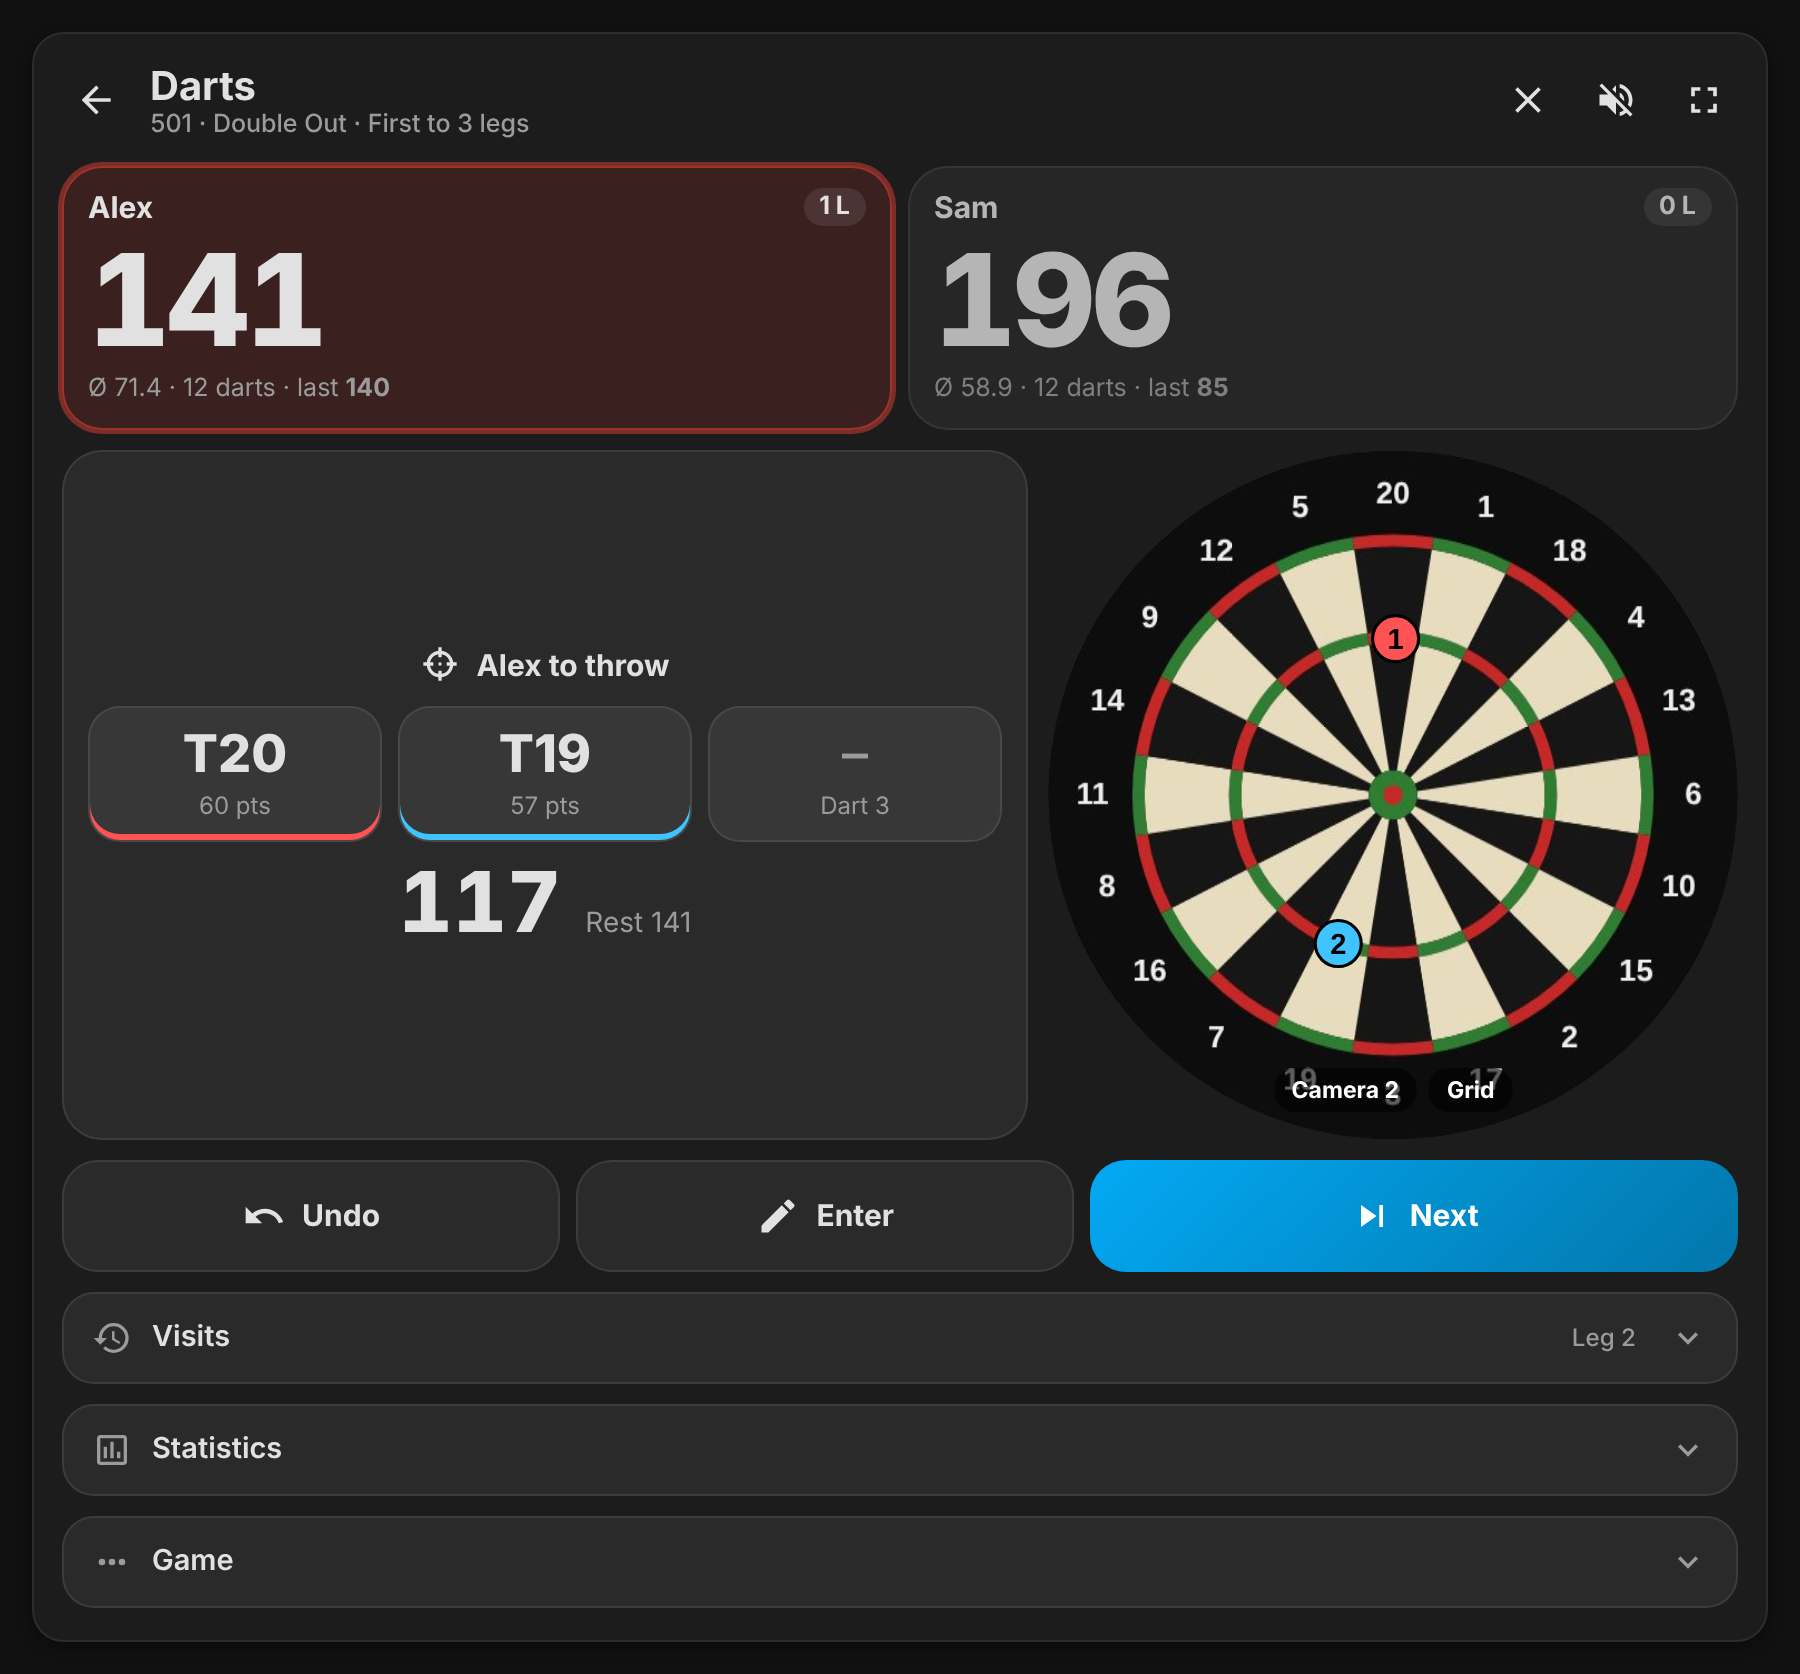
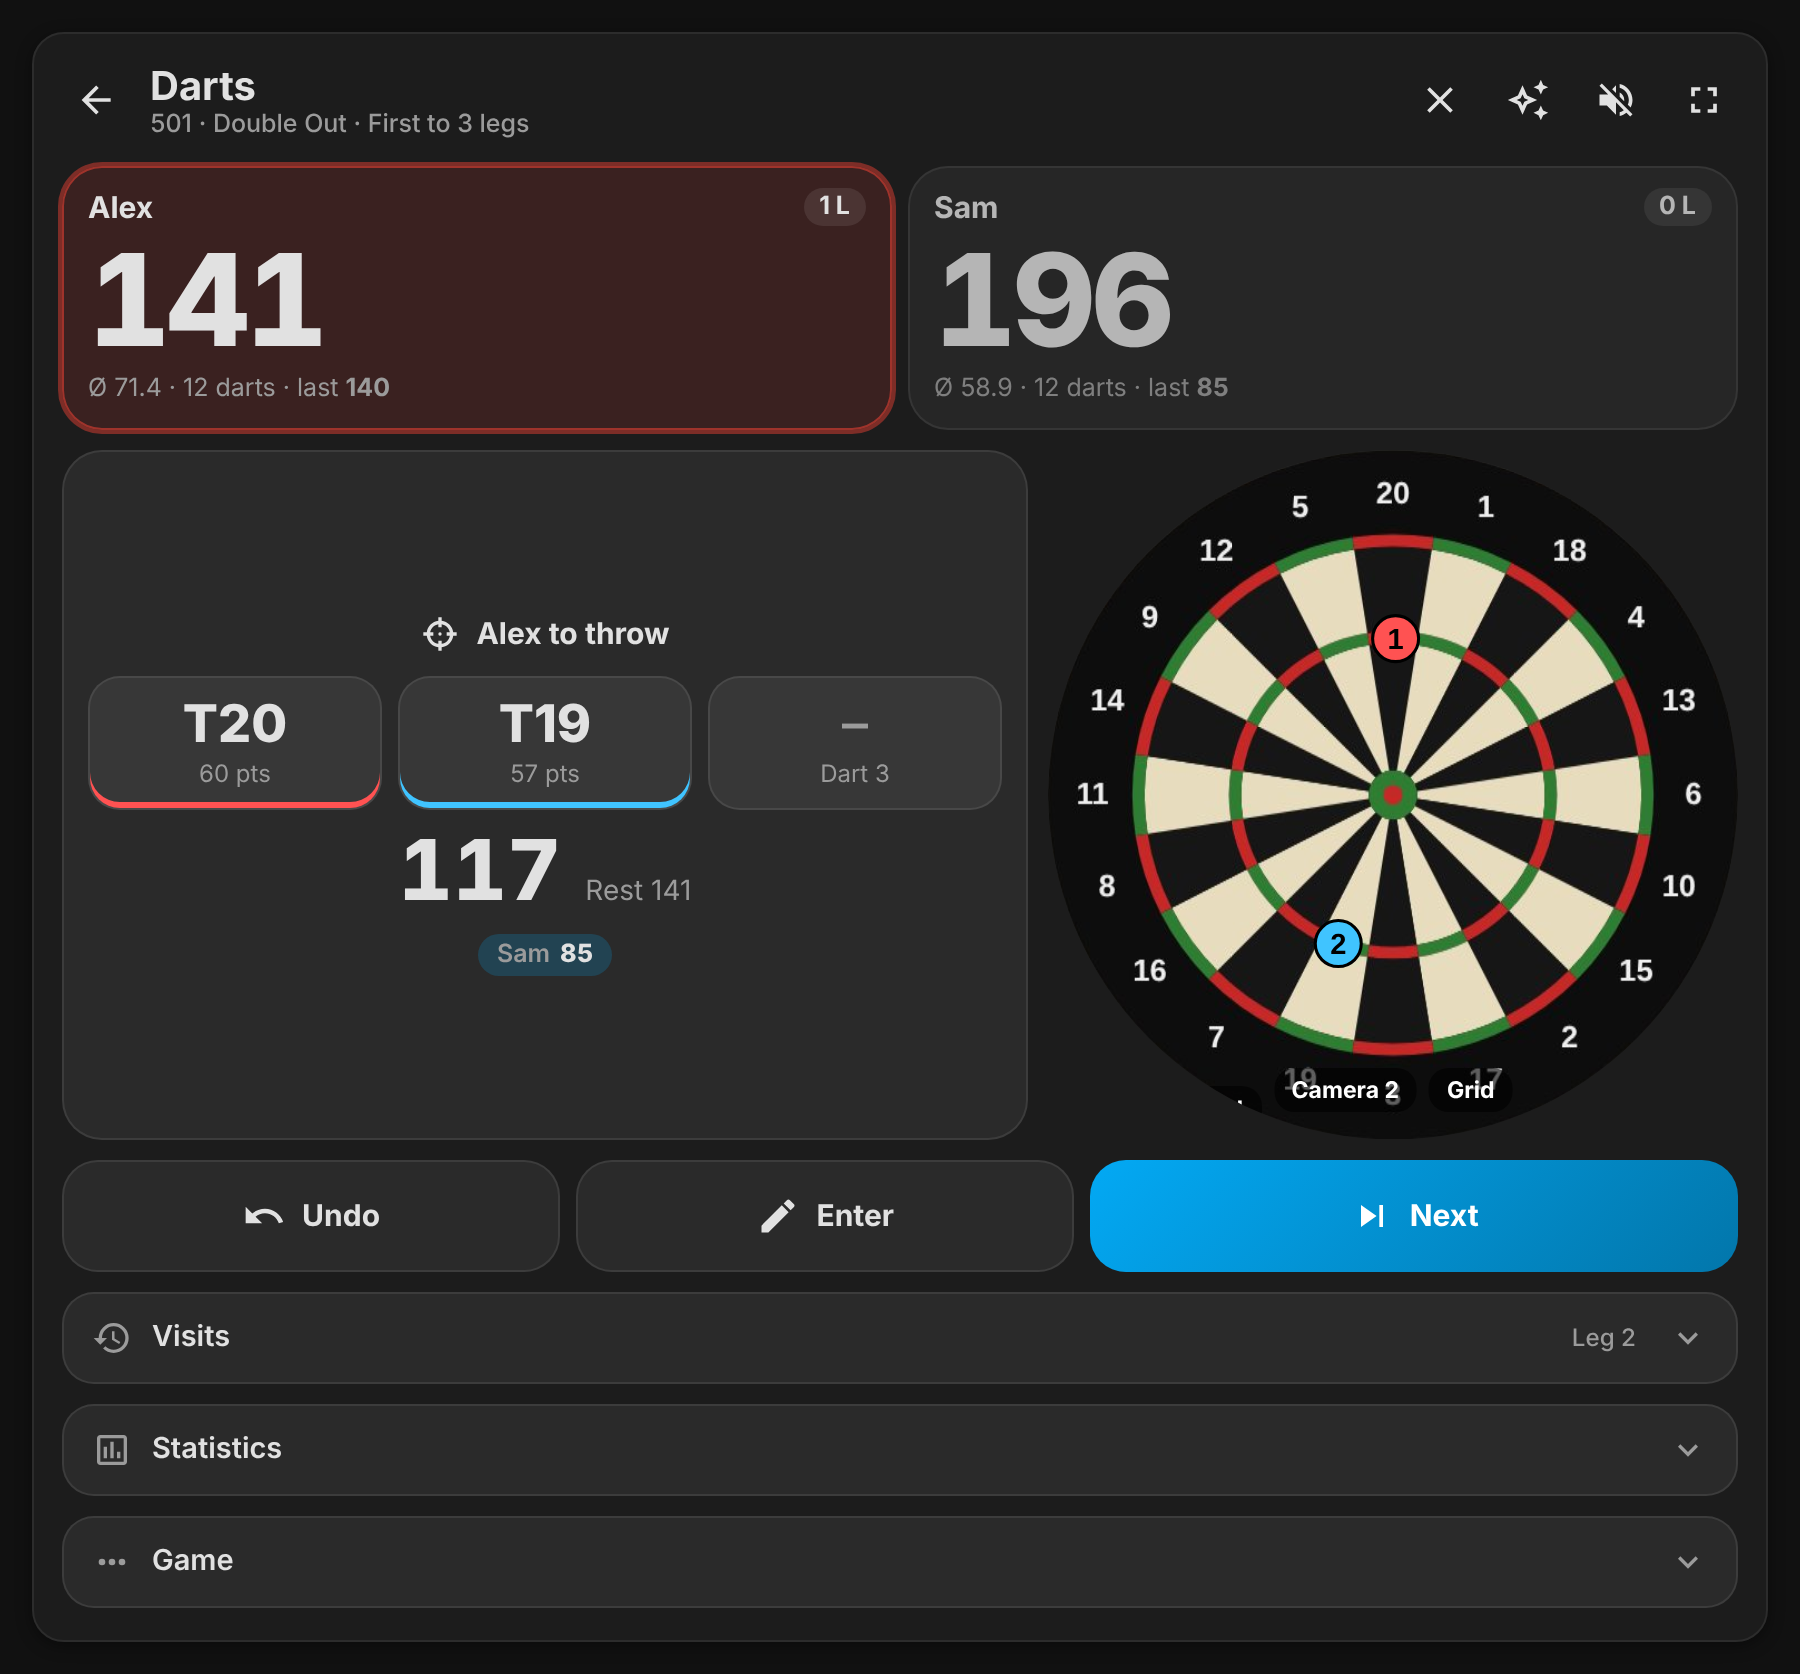
README: new screenshots and highlights for 1.9.0
Claude-Session: https://claude.ai/code/session_015s6FHMz7o3ZoDDgXQvdmwS

Changed region(s): [[0.0311, 0.3728, 0.4044, 0.5902], [0.4667, 0.4349, 0.4978, 0.497], [0.84, 0.0311, 0.8711, 0.0621]]

diff --git a/README.md b/README.md
@@ -57,7 +57,11 @@
 | 🏆 **Complete X01 game** | 101 to 901, straight / double / master in and out, legs and sets, bull-off, 1–8 players, bots with adjustable average. |
 | 🎯 **Cricket, training and party games** | Cricket (standard, cut-throat, no score; 15–20, 10–20, random), Around the Clock, Bob's 27, doubles, 121 checkout, highscore, Shanghai, Killer, Halve-It, Golf, Baseball – with rule text, target on the board and bots. |
 | ✏ **Correct anything** | Undo, add, change or delete any dart of any visit – the whole score is recalculated automatically. |
-| 📊 **Statistics** | Per player: average, first 9, checkout rate, highest score, highest finish, best leg, 180s / 140+ / 100+, wins, history. |
+| 🏟 **Tournament** | Knockout for 3–16 players with bracket, byes, next-match button and champion celebration. |
+| 📊 **Statistics** | Per player: average, first 9, checkout rate, highest score/finish, best leg, 180s, rating (Elo), hit map, trend, badges, streak, head to head, CSV export. |
+| ✨ **Effects** | Realistic one-shot animations for 180, bust, checkout, nine-darter, Shanghai, champion … switchable per device. |
+| 👆 **Without cameras** | Tap the drawn board or type `T20` + Enter. |
+| 🗣 **Voice** | Assist sentences in German, English and Russian: score, ranking, start, undo – also with an AI agent. |
 | 📷 **Cameras** | All three board cameras, detection image and live image, with the calibration grid drawn over the camera images. |
 | 🛠 **Board Manager in HA** | Start/stop detection, reset, calibrate, restart, camera resolution / frame rate / standby, board software updates. |
 | 🧩 **Dashboard cards included** | Four polished cards are installed with the integration – no extra download, no resource to add. |
@@ -75,7 +79,7 @@ The cards are part of the integration and are loaded automatically in every dash
   </tr>
   <tr>
     <td><b>Overview</b> – animated board scene with the darts where they landed, current visit, running game and optional power button.</td>
-    <td><b>Game – lobby</b> – pick players and bots, start value, legs/sets, check-in/out and bull-off.</td>
+    <td><b>Game – lobby</b> – players and bots, single game or tournament, X01, Cricket, training and party games with rule text.</td>
   </tr>
   <tr>
     <td><img src="https://raw.githubusercontent.com/Wadim-dev/Autodarts_ha/main/docs/images/manager.png" alt="Board Manager card"></td>
@@ -83,7 +87,15 @@ The cards are part of the integration and are loaded automatically in every dash
   </tr>
   <tr>
     <td><b>Board Manager</b> – camera images with calibration grid, system values, controls, camera settings and updates.</td>
-    <td><b>Players</b> – create and rename players, detailed statistics, recent games.</td>
+    <td><b>Players</b> – rating, hit map, trend, badges, head to head, ranking and CSV export.</td>
+  </tr>
+  <tr>
+    <td><img src="https://raw.githubusercontent.com/Wadim-dev/Autodarts_ha/main/docs/images/cricket.png" alt="Cricket"></td>
+    <td><img src="https://raw.githubusercontent.com/Wadim-dev/Autodarts_ha/main/docs/images/tournament.png" alt="Tournament"></td>
+  </tr>
+  <tr>
+    <td><b>Cricket</b> – marks board, MPR, last visits and the target on the board.</td>
+    <td><b>Tournament</b> – bracket with byes and the champion.</td>
   </tr>
 </table>
 
